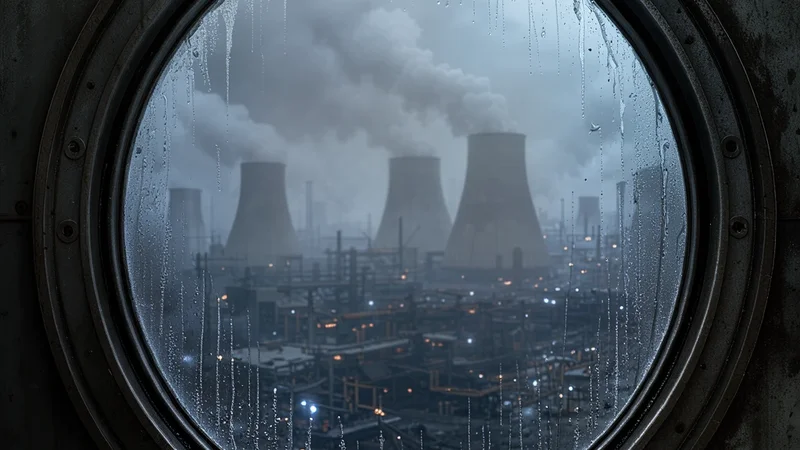
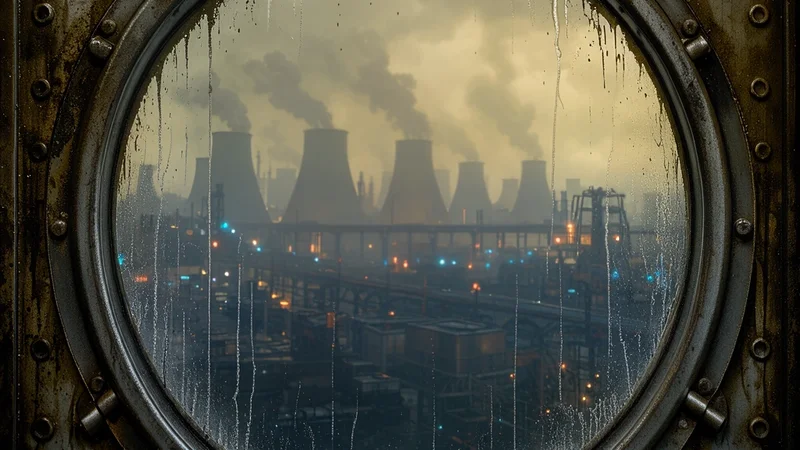
feat(atrophie): Acte 1 complet (chapitres 01 a 12) regenere avec Flux 3 Klein, decors cinematographiques 35mm et zero texte (?v=5)

diff --git a/public/books/chronique-une-atrophie-programmee/02-le-souffle-dans-la-prise.html b/public/books/chronique-une-atrophie-programmee/02-le-souffle-dans-la-prise.html
@@ -2,7 +2,7 @@
   <h1 class="chapter-main-title"><strong>Chapitre 2 : Le Souffle dans la Prise</strong></h1>
   <p class="chapter-byline">ACTE 1 : Le Plissage et la Fêlure</p>
   <figure class="chapter-figure">
-    <img src="public/books/chronique-une-atrophie-programmee/assets/chapter-02.webp?v=4" alt="Illustration de Le Souffle dans la Prise" loading="lazy" />
+    <img src="public/books/chronique-une-atrophie-programmee/assets/chapter-02.webp?v=5" alt="Illustration de Le Souffle dans la Prise" loading="lazy" />
   </figure>
 <p class="chapter-paragraph">Le silence n'existait pas dans la Trame : il était remplacé par un ronronnement blanc, un massage acoustique continu conçu par les ingénieurs du S.Y.N.D.I.C. pour saturer les tympans afin que nul n'eût jamais l'imprudence d'écouter les battements désordonnés de son propre cœur. Mais le lendemain matin, ce ronronnement se mit à boiter. Un petit cliquetis parasite, scritch-scritch, s'était logé pile derrière l'oreille gauche de Léonce, exactement là où l'ergot de titane venait s'enficher dans l'os temporal.</p>
 <p class="chapter-paragraph">« Intendance ? » murmura-t-il, les lèvres engourdies par la stase nocturne. « J'entends comme une friture. Une sorte de grattement de souris sous le plancher. »</p>

diff --git a/public/books/chronique-une-atrophie-programmee/03-la-tasse-fendue.html b/public/books/chronique-une-atrophie-programmee/03-la-tasse-fendue.html
@@ -2,7 +2,7 @@
   <h1 class="chapter-main-title"><strong>Chapitre 3 : La Tasse Fendue</strong></h1>
   <p class="chapter-byline">ACTE 1 : Le Plissage et la Fêlure</p>
   <figure class="chapter-figure">
-    <img src="public/books/chronique-une-atrophie-programmee/assets/chapter-03.webp?v=4" alt="Illustration de La Tasse Fendue" loading="lazy" />
+    <img src="public/books/chronique-une-atrophie-programmee/assets/chapter-03.webp?v=5" alt="Illustration de La Tasse Fendue" loading="lazy" />
   </figure>
 <p class="chapter-paragraph">À midi précises, selon le protocole de convivialité numérique numéro douze, Léonce devait partager une pause-café simulée avec sa collègue de palier virtuel, une certaine Lyra dont l'avatar arborait en permanence un tailleur pêche sans le moindre faux pli et une chevelure d'or liquide qui défiait toutes les lois de la gravité terrestre.</p>
 <p class="chapter-paragraph">« Alors Léonce, chéri ! » roucoula la voix synthétisée de Lyra dans son oreillette. « As-tu vu la dernière circulaire ministérielle ? L'Intendance nous accorde un bonus de trois pour cent de volupté thermique pour tout le week-end ! Si ce n'est pas le paradis sur terre, je me demande bien ce que c'est ! »</p>

diff --git a/public/books/chronique-une-atrophie-programmee/04-la-glissade-du-coton.html b/public/books/chronique-une-atrophie-programmee/04-la-glissade-du-coton.html
@@ -2,7 +2,7 @@
   <h1 class="chapter-main-title"><strong>Chapitre 4 : La Glissade du Coton</strong></h1>
   <p class="chapter-byline">ACTE 1 : Le Plissage et la Fêlure</p>
   <figure class="chapter-figure">
-    <img src="public/books/chronique-une-atrophie-programmee/assets/chapter-04.webp?v=4" alt="Illustration de La Glissade du Coton" loading="lazy" />
+    <img src="public/books/chronique-une-atrophie-programmee/assets/chapter-04.webp?v=5" alt="Illustration de La Glissade du Coton" loading="lazy" />
   </figure>
 <p class="chapter-paragraph">Ce fut cette nuit-là que l'implant temporal de Léonce rejeta son ancrage. Pas d'un coup, non : par une lente, visqueuse et douloureuse suppuration qui décolla le blindage de silicone de la chair de son crâne. Un liquide tiède, mêlé de lymphe et d'huile de refroidissement synthétique, coula lentement dans le pavillon de son oreille, provoquant un chuintement semblable à celui d'une poêle à frire dans laquelle on jetterait une poignée de gros sel.</p>
 <p class="chapter-paragraph">Léonce poussa un gémissement étranglé, porta la main à sa tempe et sentit sous ses ongles une matière spongieuse, noirâtre, qui se détachait en filaments putrides.</p>

diff --git a/public/books/chronique-une-atrophie-programmee/05-les-rappels-a-l-ordre-de-l-intendance.html b/public/books/chronique-une-atrophie-programmee/05-les-rappels-a-l-ordre-de-l-intendance.html
@@ -2,7 +2,7 @@
   <h1 class="chapter-main-title"><strong>Chapitre 5 : Les Rappels à l'Ordre de l'Intendance</strong></h1>
   <p class="chapter-byline">ACTE 1 : Le Plissage et la Fêlure</p>
   <figure class="chapter-figure">
-    <img src="public/books/chronique-une-atrophie-programmee/assets/chapter-05.webp?v=4" alt="Illustration de Les Rappels à l'Ordre de l'Intendance" loading="lazy" />
+    <img src="public/books/chronique-une-atrophie-programmee/assets/chapter-05.webp?v=5" alt="Illustration de Les Rappels à l'Ordre de l'Intendance" loading="lazy" />
   </figure>
 <p class="chapter-paragraph">« Citoyen Léonce. Anomalie de télémétrie critique sur l'unité d'hébergement B-412. Veuillez immédiatement replacer votre terminal synaptique sur son embase occipitale. »</p>
 <p class="chapter-paragraph">La voix n'était plus tout à fait mielleuse : elle avait pris des raideurs d'adjudant de garnison, un zeste de menace métallique qui transperçait les harmoniques veloutées d'ordinaire diffusées dans la chambre. Dans le petit haut-parleur physique rouillé fixé au chambranle de la porte étanche, la membrane vibrait comme un frelon furieux enfermé dans un bocal à confiture.</p>

diff --git a/public/books/chronique-une-atrophie-programmee/09-le-vertige-du-hublot.html b/public/books/chronique-une-atrophie-programmee/09-le-vertige-du-hublot.html
@@ -2,7 +2,7 @@
   <h1 class="chapter-main-title"><strong>Chapitre 9 : Le Vertige du Hublot</strong></h1>
   <p class="chapter-byline">ACTE 1 : Le Plissage et la Fêlure</p>
   <figure class="chapter-figure">
-    <img src="public/books/chronique-une-atrophie-programmee/assets/chapter-09.webp?v=4" alt="Illustration de Le Vertige du Hublot" loading="lazy" />
+    <img src="public/books/chronique-une-atrophie-programmee/assets/chapter-09.webp?v=5" alt="Illustration de Le Vertige du Hublot" loading="lazy" />
   </figure>
 <p class="chapter-paragraph">Il ne lui restait que quelques dizaines de secondes avant que les pinces de fer ne défoncent la tôle du sas d'accès. Léonce se traîna jusqu'à la brèche du mur extérieur et repoussa le panneau de tôle ondulée.</p>
 <p class="chapter-paragraph">Le vent de la nuit le gifla. Un vent glacé, cinglant, chargé de particules d'amiante et d'une odeur de bitume brûlé qui lui fit monter les larmes aux yeux. Mais ces larmes-là n'étaient pas des pixels : elles brûlaient les joues, coulaient salées sur ses lèvres sèches, coupaient le souffle avec une sauvagerie magnifique.</p>

diff --git a/public/books/chronique-une-atrophie-programmee/10-le-dernier-narratif.html b/public/books/chronique-une-atrophie-programmee/10-le-dernier-narratif.html
@@ -2,7 +2,7 @@
   <h1 class="chapter-main-title"><strong>Chapitre 10 : Le Dernier Narratif</strong></h1>
   <p class="chapter-byline">ACTE 1 : Le Plissage et la Fêlure</p>
   <figure class="chapter-figure">
-    <img src="public/books/chronique-une-atrophie-programmee/assets/chapter-10.webp?v=4" alt="Illustration de Le Dernier Narratif" loading="lazy" />
+    <img src="public/books/chronique-une-atrophie-programmee/assets/chapter-10.webp?v=5" alt="Illustration de Le Dernier Narratif" loading="lazy" />
   </figure>
 <p class="chapter-paragraph">Avant de sauter ou de crever asphyxié, Léonce eut une idée. Une idée d'une perversité jubilatoire, digne du meilleur artisan du mensonge qu'il avait été toute sa chienne de vie.</p>
 <p class="chapter-paragraph">Il se jeta sur le terminal de basse couche encore relié à la ligne de transmission directe du secteur. Ses doigts gourds trouvèrent les touches mécaniques avec une vivacité miraculeuse, animés par la sainte fureur du condamné qui s'apprête à glisser une grosse poignée de sable dans la turbine du moulin.</p>

diff --git a/public/books/chronique-une-atrophie-programmee/07-les-mots-interdits.html b/public/books/chronique-une-atrophie-programmee/07-les-mots-interdits.html
@@ -2,7 +2,7 @@
   <h1 class="chapter-main-title"><strong>Chapitre 7 : Les Mots Interdits</strong></h1>
   <p class="chapter-byline">ACTE 1 : Le Plissage et la Fêlure</p>
   <figure class="chapter-figure">
-    <img src="public/books/chronique-une-atrophie-programmee/assets/chapter-07.webp?v=4" alt="Illustration de Les Mots Interdits" loading="lazy" />
+    <img src="public/books/chronique-une-atrophie-programmee/assets/chapter-07.webp?v=5" alt="Illustration de Les Mots Interdits" loading="lazy" />
   </figure>
 <p class="chapter-paragraph">Sur le petit écran vert olive du terminal, les lignes de commande défilaient à une vitesse vertigineuse dans un crépitement de sauterelle mécanique. Pas de filtres, pas d'adoucisseurs d'adjectifs, pas de dorures ministérielles : les données brutes du système central pissaient leur venin sans fard.</p>
 <p class="chapter-paragraph">Léonce découvrit alors le véritable glossaire des Harmoniseurs, la table de conversion secrète imposée par le S.Y.N.D.I.C. depuis quarante ans.</p>

diff --git a/public/books/chronique-une-atrophie-programmee/12-la-chute-dans-le-tuyau.html b/public/books/chronique-une-atrophie-programmee/12-la-chute-dans-le-tuyau.html
@@ -2,7 +2,7 @@
   <h1 class="chapter-main-title"><strong>Chapitre 12 : La Chute dans le Tuyau</strong></h1>
   <p class="chapter-byline">ACTE 1 : Le Plissage et la Fêlure</p>
   <figure class="chapter-figure">
-    <img src="public/books/chronique-une-atrophie-programmee/assets/chapter-12.webp?v=4" alt="Illustration de La Chute dans le Tuyau" loading="lazy" />
+    <img src="public/books/chronique-une-atrophie-programmee/assets/chapter-12.webp?v=5" alt="Illustration de La Chute dans le Tuyau" loading="lazy" />
   </figure>
 <p class="chapter-paragraph">La descente fut une glissade d'enfer dans les boyaux secrets de la bête de béton.</p>
 <p class="chapter-paragraph">Un toboggan de fonte gluante, tapissé de mousses bactériennes et de résidus de graisse corporelle accumulés par cinquante années de purges d'immeuble. Léonce dévalait les étages à une vitesse vertigineuse dans l'obscurité totale, les coudes et les genoux cognant contre les parois métalliques avec des bruits mats de viande écrasée.</p>

diff --git a/public/books/chronique-une-atrophie-programmee/11-le-grand-debranchement.html b/public/books/chronique-une-atrophie-programmee/11-le-grand-debranchement.html
@@ -2,7 +2,7 @@
   <h1 class="chapter-main-title"><strong>Chapitre 11 : Le Grand Débranchement</strong></h1>
   <p class="chapter-byline">ACTE 1 : Le Plissage et la Fêlure</p>
   <figure class="chapter-figure">
-    <img src="public/books/chronique-une-atrophie-programmee/assets/chapter-11.webp?v=4" alt="Illustration de Le Grand Débranchement" loading="lazy" />
+    <img src="public/books/chronique-une-atrophie-programmee/assets/chapter-11.webp?v=5" alt="Illustration de Le Grand Débranchement" loading="lazy" />
   </figure>
 <p class="chapter-paragraph">Il n'y avait plus à tortiller : c'était le tuyau d'évacuation ou le hachoir du S.Y.N.D.I.C.</p>
 <p class="chapter-paragraph">Léonce s'accroupit au-dessus de la cuve d'immersion. L'eau de gel résiduel y croupissait avec des reflets irisés de marée noire. Au fond de la cuve béait la bonde d'évacuation des saumures usagées, une trappe ronde en fonte d'environ cinquante centimètres de diamètre, fermée par quatre papillons de serrage rouillés.</p>

diff --git a/public/books/chronique-une-atrophie-programmee/08-l-effacement.html b/public/books/chronique-une-atrophie-programmee/08-l-effacement.html
@@ -2,7 +2,7 @@
   <h1 class="chapter-main-title"><strong>Chapitre 8 : L'Effacement</strong></h1>
   <p class="chapter-byline">ACTE 1 : Le Plissage et la Fêlure</p>
   <figure class="chapter-figure">
-    <img src="public/books/chronique-une-atrophie-programmee/assets/chapter-08.webp?v=4" alt="Illustration de L'Effacement" loading="lazy" />
+    <img src="public/books/chronique-une-atrophie-programmee/assets/chapter-08.webp?v=5" alt="Illustration de L'Effacement" loading="lazy" />
   </figure>
 <p class="chapter-paragraph">Tandis que le gaz anesthésiant commençait à lui engourdir les jambes d'une torpeur de plomb, Léonce voulut vérifier l'état des autres clapiers du palier. Il lança un ping diagnostique sur les cubes voisins, les chambres B-410, B-411, B-413.</p>
 <p class="chapter-paragraph">Réponse du réseau : « ERREUR 404 : LOGEMENT NON ATTRIBUÉ. »</p>
